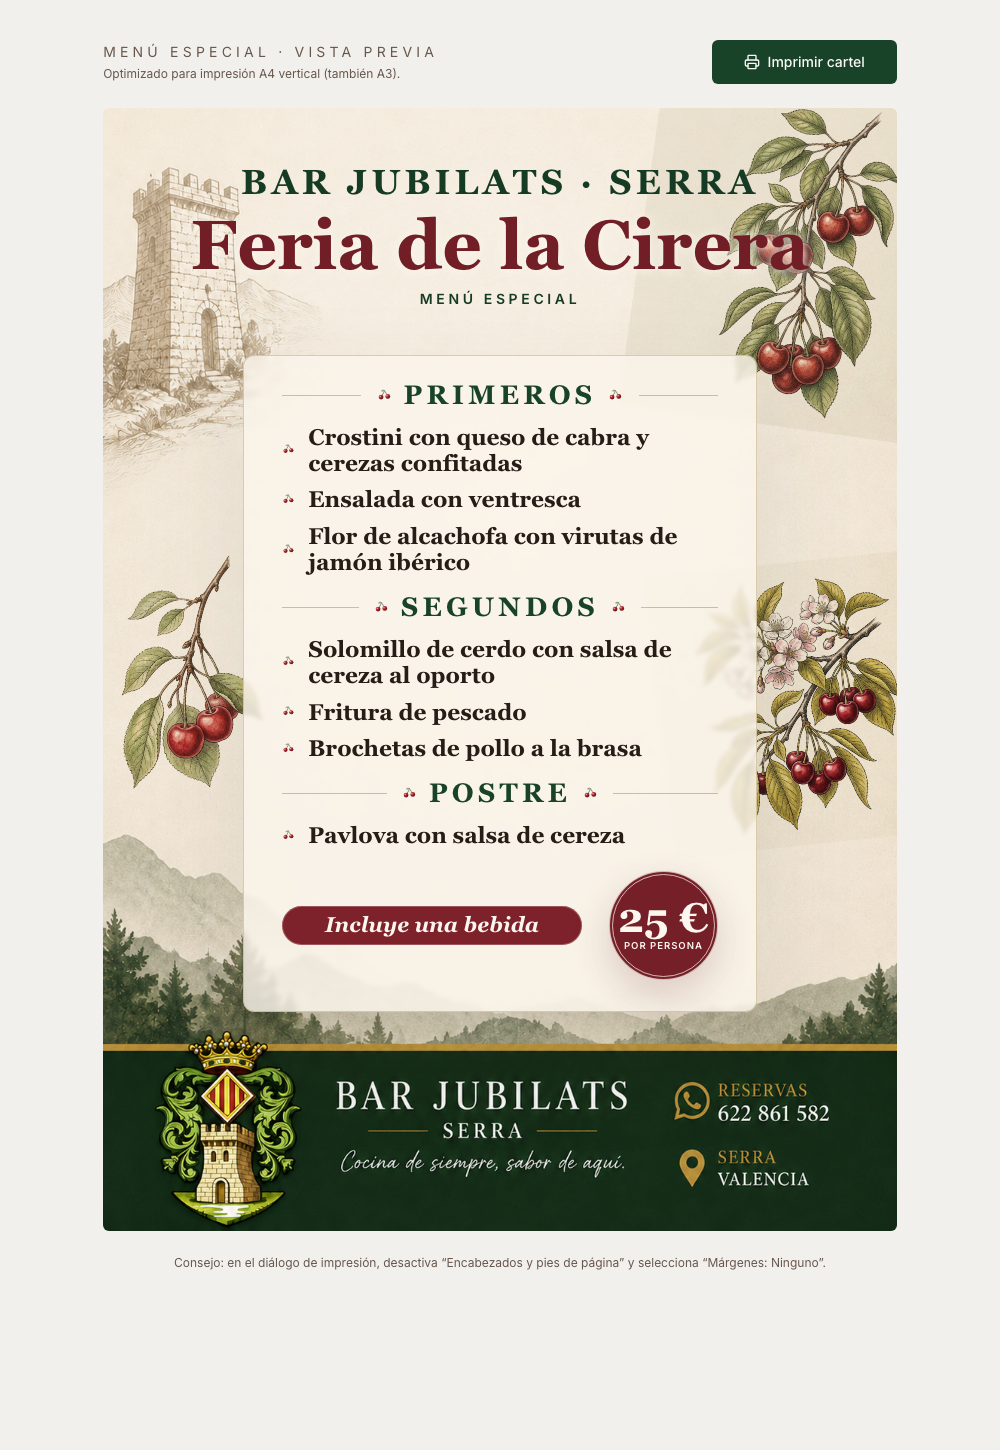
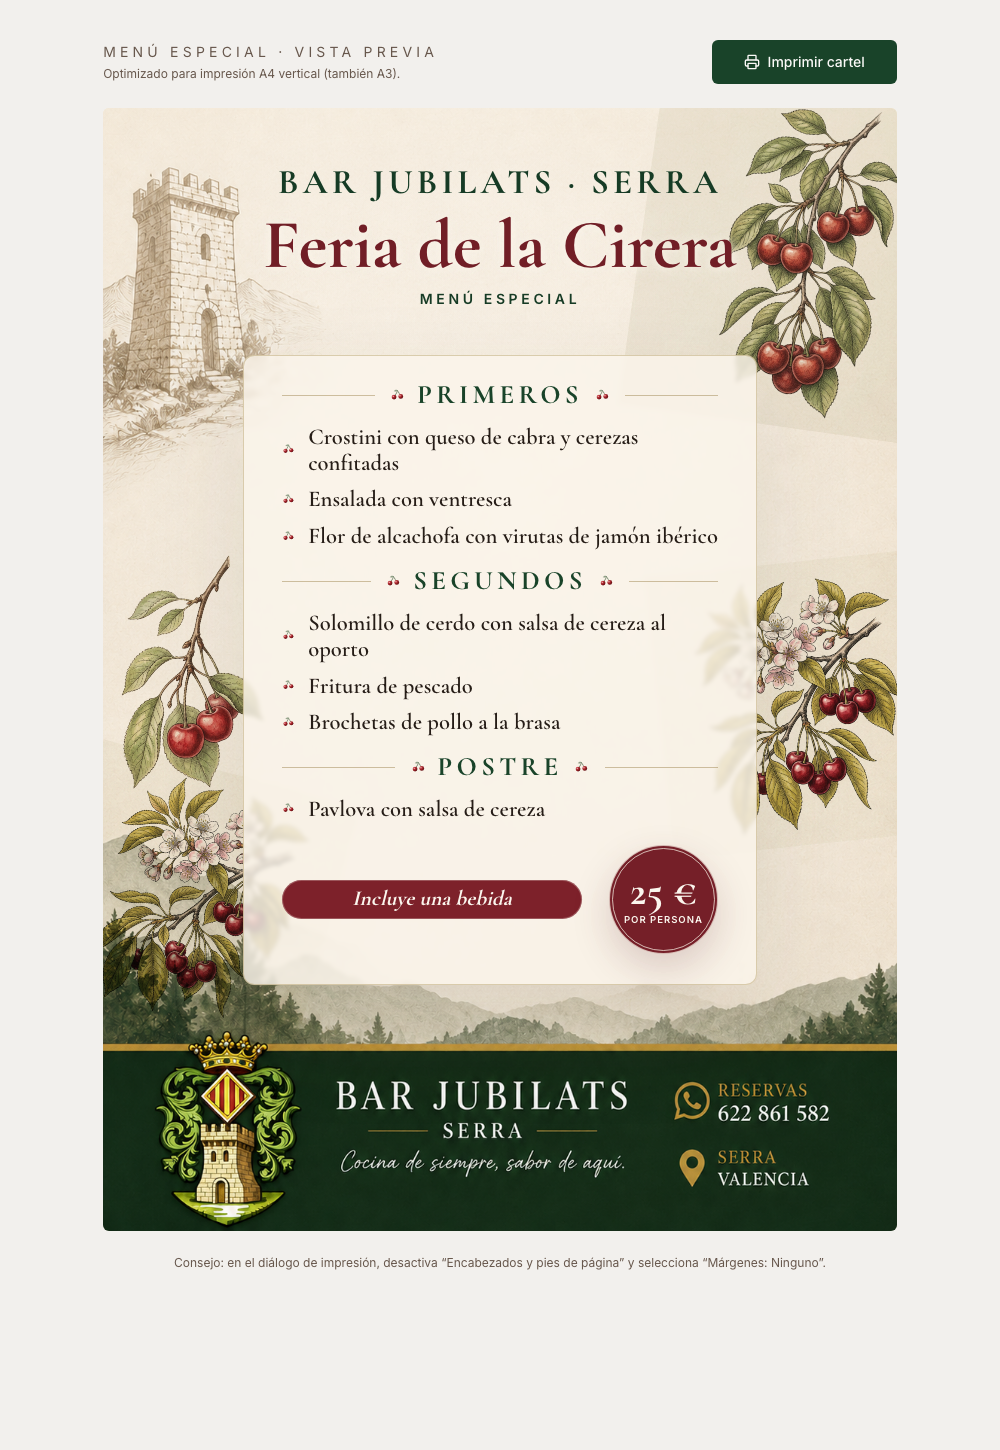
style(cartel): agregar ilustracion de flores a la izquierda en armonia y sin tapar nada

Changed region(s): [[0.093, 0.2483, 0.775, 0.7138], [0.186, 0.0931, 0.806, 0.2172]]

diff --git a/src/components/Poster.tsx b/src/components/Poster.tsx
@@ -144,6 +144,27 @@ const Poster = () => {
         }}
       />
 
+      {/* Lower-Left Cherry Branch with Flowers (Genuine vintage botanical illustration overlay, below the middle-left branch and above the mountains) */}
+      <img
+        src={cherryFlowers}
+        alt=""
+        aria-hidden="true"
+        style={{
+          position: "absolute",
+          zIndex: 1,
+          top: "175mm",
+          left: "-10mm",
+          width: "70mm",
+          height: "70mm",
+          objectFit: "contain",
+          opacity: 0.95,
+          mixBlendMode: "multiply",
+          transform: "rotate(15deg)",
+          pointerEvents: "none",
+          userSelect: "none",
+        }}
+      />
+
       {/* Middle-Right Cherry Branch with Flowers (Genuine vintage botanical illustration overlay featuring blossoms, in the middle height on the right side) */}
       <img
         src={cherryFlowers}